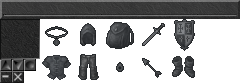
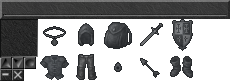
Reduced inventory slot size from 40 to 38

diff --git a/src/PlayerEquipmentInventory.cpp b/src/PlayerEquipmentInventory.cpp
@@ -31,18 +31,18 @@ InventoryView PlayerEquipmentInventory::createInventoryView()
     std::vector<InventorySlotView> slotViews;
     slotViews.reserve(m_contents.size());
 
-    slotViews.emplace_back(m_contents[0], Vec2I(57, 17+43*0), InventorySlotView::ContentRequirement::Necklace);
-    slotViews.emplace_back(m_contents[1], Vec2I(57, 17+43*1), InventorySlotView::ContentRequirement::Sword);
-    slotViews.emplace_back(m_contents[2], Vec2I(57, 17+43*2), InventorySlotView::ContentRequirement::Ring);
+    slotViews.emplace_back(m_contents[0], Vec2I(52, 17+43*0), InventorySlotView::ContentRequirement::Necklace);
+    slotViews.emplace_back(m_contents[1], Vec2I(52, 17+43*1), InventorySlotView::ContentRequirement::Sword);
+    slotViews.emplace_back(m_contents[2], Vec2I(52, 17+43*2), InventorySlotView::ContentRequirement::Ring);
 
-    slotViews.emplace_back(m_contents[3], Vec2I(100, 4+43*0), InventorySlotView::ContentRequirement::Helmet);
-    slotViews.emplace_back(m_contents[4], Vec2I(100, 4+43*1), InventorySlotView::ContentRequirement::Chestplate);
-    slotViews.emplace_back(m_contents[5], Vec2I(100, 4+43*2), InventorySlotView::ContentRequirement::Pants);
-    slotViews.emplace_back(m_contents[6], Vec2I(100, 4+43*3), InventorySlotView::ContentRequirement::Boots);
+    slotViews.emplace_back(m_contents[3], Vec2I(95, 4+43*0), InventorySlotView::ContentRequirement::Helmet);
+    slotViews.emplace_back(m_contents[4], Vec2I(95, 4+43*1), InventorySlotView::ContentRequirement::Chestplate);
+    slotViews.emplace_back(m_contents[5], Vec2I(95, 4+43*2), InventorySlotView::ContentRequirement::Pants);
+    slotViews.emplace_back(m_contents[6], Vec2I(95, 4+43*3), InventorySlotView::ContentRequirement::Boots);
 
-    slotViews.emplace_back(m_contents[7], Vec2I(143, 17+43*0), InventorySlotView::ContentRequirement::Container);
-    slotViews.emplace_back(m_contents[8], Vec2I(143, 17+43*1), InventorySlotView::ContentRequirement::Shield);
-    slotViews.emplace_back(m_contents[9], Vec2I(143, 17+43*2), InventorySlotView::ContentRequirement::Ammo);
+    slotViews.emplace_back(m_contents[7], Vec2I(138, 17+43*0), InventorySlotView::ContentRequirement::Container);
+    slotViews.emplace_back(m_contents[8], Vec2I(138, 17+43*1), InventorySlotView::ContentRequirement::Shield);
+    slotViews.emplace_back(m_contents[9], Vec2I(138, 17+43*2), InventorySlotView::ContentRequirement::Ammo);
 
     InventoryView inventoryView(this, std::move(slotViews));
     inventoryView.setMinimizable(true);

diff --git a/src/InventorySlotView.cpp b/src/InventorySlotView.cpp
@@ -9,21 +9,21 @@ using namespace ls;
 
 ResourceHandle<sf::Texture> InventorySlotView::m_texture {nullptr};
 Vec2I InventorySlotView::m_slotTexture {0, 19};
-Vec2I InventorySlotView::m_slotTextureSize {40, 40};
+Vec2I InventorySlotView::m_slotTextureSize {38, 38};
 Vec2I InventorySlotView::m_requirementIconSize {32, 32};
 std::map<InventorySlotView::ContentRequirement, ls::Vec2I> InventorySlotView::m_requirementIcons
 {
-    {InventorySlotView::ContentRequirement::Necklace, Vec2I(40 + 32 * 0, 19)},
-    {InventorySlotView::ContentRequirement::Helmet, Vec2I(40 + 32 * 1, 19)},
-    {InventorySlotView::ContentRequirement::Container, Vec2I(40 + 32 * 2, 19)},
-    {InventorySlotView::ContentRequirement::Sword, Vec2I(40 + 32 * 3, 19)},
-    {InventorySlotView::ContentRequirement::Shield, Vec2I(40 + 32 * 4, 19)},
+    {InventorySlotView::ContentRequirement::Necklace, Vec2I(38 + 32 * 0, 19)},
+    {InventorySlotView::ContentRequirement::Helmet, Vec2I(38 + 32 * 1, 19)},
+    {InventorySlotView::ContentRequirement::Container, Vec2I(38 + 32 * 2, 19)},
+    {InventorySlotView::ContentRequirement::Sword, Vec2I(38 + 32 * 3, 19)},
+    {InventorySlotView::ContentRequirement::Shield, Vec2I(38 + 32 * 4, 19)},
 
-    {InventorySlotView::ContentRequirement::Chestplate, Vec2I(40 + 32 * 0, 19 + 32)},
-    {InventorySlotView::ContentRequirement::Pants, Vec2I(40 + 32 * 1, 19 + 32)},
-    {InventorySlotView::ContentRequirement::Ring, Vec2I(40 + 32 * 2, 19 + 32)},
-    {InventorySlotView::ContentRequirement::Ammo, Vec2I(40 + 32 * 3, 19 + 32)},
-    {InventorySlotView::ContentRequirement::Boots, Vec2I(40 + 32 * 4, 19 + 32)}
+    {InventorySlotView::ContentRequirement::Chestplate, Vec2I(38 + 32 * 0, 19 + 32)},
+    {InventorySlotView::ContentRequirement::Pants, Vec2I(38 + 32 * 1, 19 + 32)},
+    {InventorySlotView::ContentRequirement::Ring, Vec2I(38 + 32 * 2, 19 + 32)},
+    {InventorySlotView::ContentRequirement::Ammo, Vec2I(38 + 32 * 3, 19 + 32)},
+    {InventorySlotView::ContentRequirement::Boots, Vec2I(38 + 32 * 4, 19 + 32)}
 };
 
 InventorySlotView::InventorySlotView(Tile* content, const Vec2I& position, ContentRequirement requirement) :
@@ -98,7 +98,6 @@ const Vec2I& InventorySlotView::position() const
 {
     return m_position;
 }
-
 void InventorySlotView::draw(sf::RenderTarget& renderTarget, sf::RenderStates& renderStates)
 {
     sf::Sprite slotSprite;

diff --git a/src/InventoryView.cpp b/src/InventoryView.cpp
@@ -9,7 +9,7 @@
 
 using namespace ls;
 
-int InventoryView::m_minSensibleHeight = 67;
+int InventoryView::m_minSensibleHeight = 65;
 int InventoryView::m_topBarHeight = 15;
 int InventoryView::m_leftBarWidth = 4;
 int InventoryView::m_bottomBarHeight = 4;
@@ -196,15 +196,15 @@ void InventoryView::setHeightToMax()
 
 void InventoryView::draw(sf::RenderTarget& renderTarget, sf::RenderStates& renderStates)
 {
-    constexpr int inventoryWindowWidth = 240;
+    constexpr int inventoryWindowWidth = 230;
     const Vec2I topBarSpritePosition {0, 0};
     const Vec2I leftBarSpritePosition {0, 0};
     const Vec2I rightBarSpritePosition {4, 0};
     const Vec2I bottomBarSpritePosition {0, 15};
     const Vec2I scrollBarSpritePosition {8, 0};
-    const Vec2I scrollBarUpButtonSpritePosition {0, 59};
-    const Vec2I scrollBarDownButtonSpritePosition {12, 59};
-    const Vec2I scrollBarSliderButtonSpritePosition {24, 59};
+    const Vec2I scrollBarUpButtonSpritePosition {0, 57};
+    const Vec2I scrollBarDownButtonSpritePosition {12, 57};
+    const Vec2I scrollBarSliderButtonSpritePosition {24, 57};
     const Vec2I scrollButtonsSizes {12, 12};
 
     ResourceHandle<sf::Texture> backgroundTexture = ResourceManager::instance().get<sf::Texture>("UiBackground");

diff --git a/src/WindowSpaceManager.cpp b/src/WindowSpaceManager.cpp
@@ -92,7 +92,7 @@ void WindowSpaceManager::setDefaultView()
 }
 void WindowSpaceManager::updateRegions()
 {
-    constexpr int playerUiWidth = 240;
+    constexpr int playerUiWidth = 230;
 
     Vec2I windowSize {(int)m_window.getSize().x, (int)m_window.getSize().y};
 
